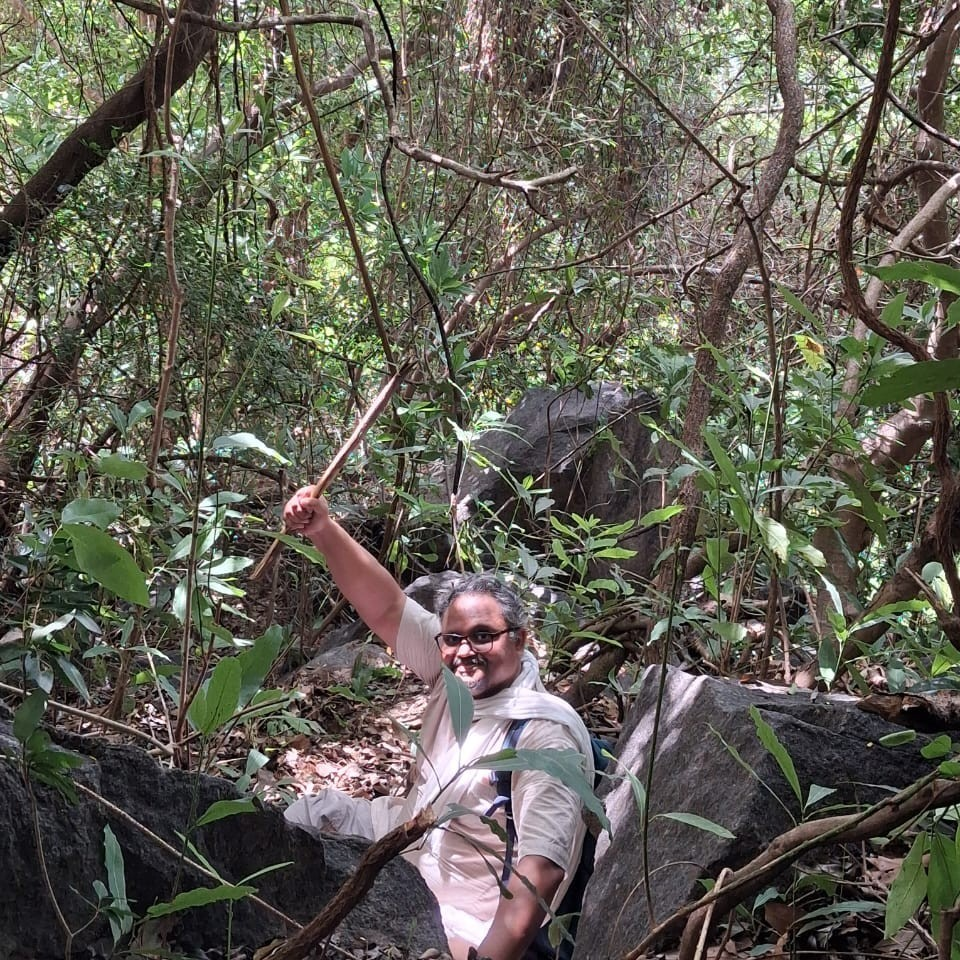
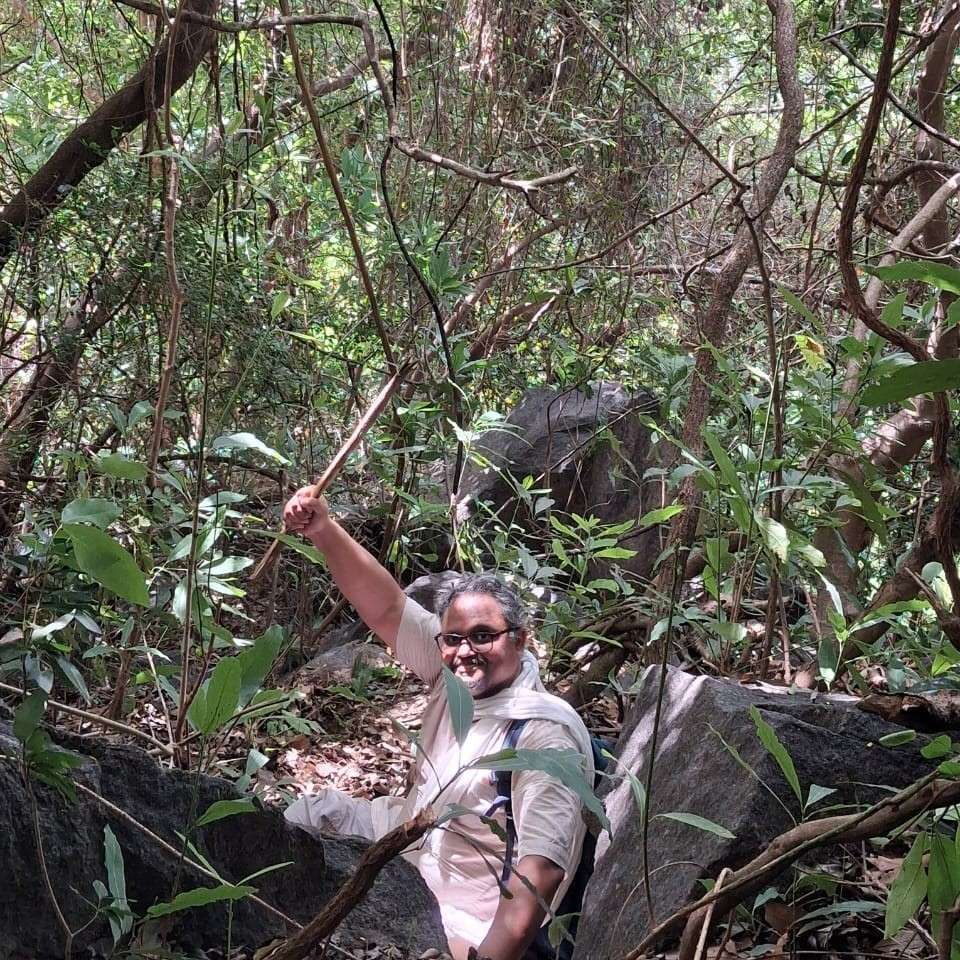
replaced pictures in thattakkal fort with compressed images

diff --git a/scripts/compress-photos/compress-photos.py b/scripts/compress-photos/compress-photos.py
@@ -1,0 +1,25 @@
+from PIL import Image
+import os
+
+# Folder containing your images
+input_folder = "og-photos"
+output_folder = "photos_compressed"
+os.makedirs(output_folder, exist_ok=True)
+
+# Loop through all files in the input folder
+for filename in os.listdir(input_folder):
+    if filename.lower().endswith(('.jpg', '.jpeg', '.png')):
+        img_path = os.path.join(input_folder, filename)
+        img = Image.open(img_path)
+
+        # Optional: Resize image (uncomment to use)
+        # img = img.resize((img.width // 2, img.height // 2))
+
+        # Save with reduced quality (for JPEG)
+        output_path = os.path.join(output_folder, filename)
+        if filename.lower().endswith(('.jpg', '.jpeg')):
+            img.save(output_path, "JPEG", quality=60, optimize=True)
+        else:  # For PNG
+            img.save(output_path, "PNG", optimize=True)
+
+        print(f"Compressed: {filename}")
